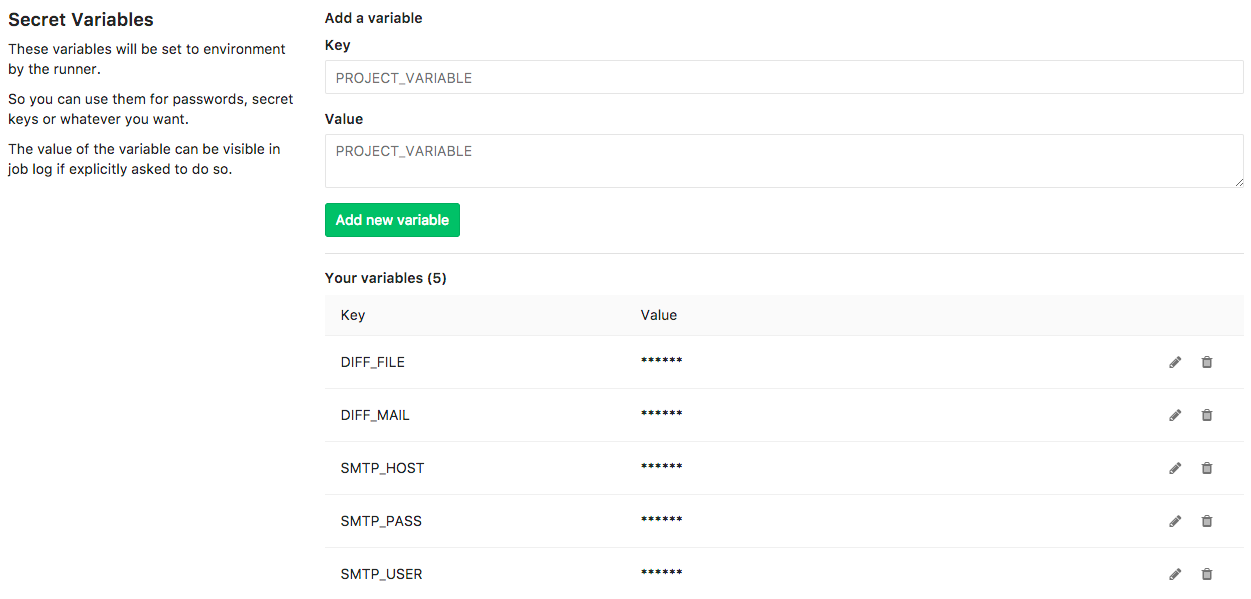
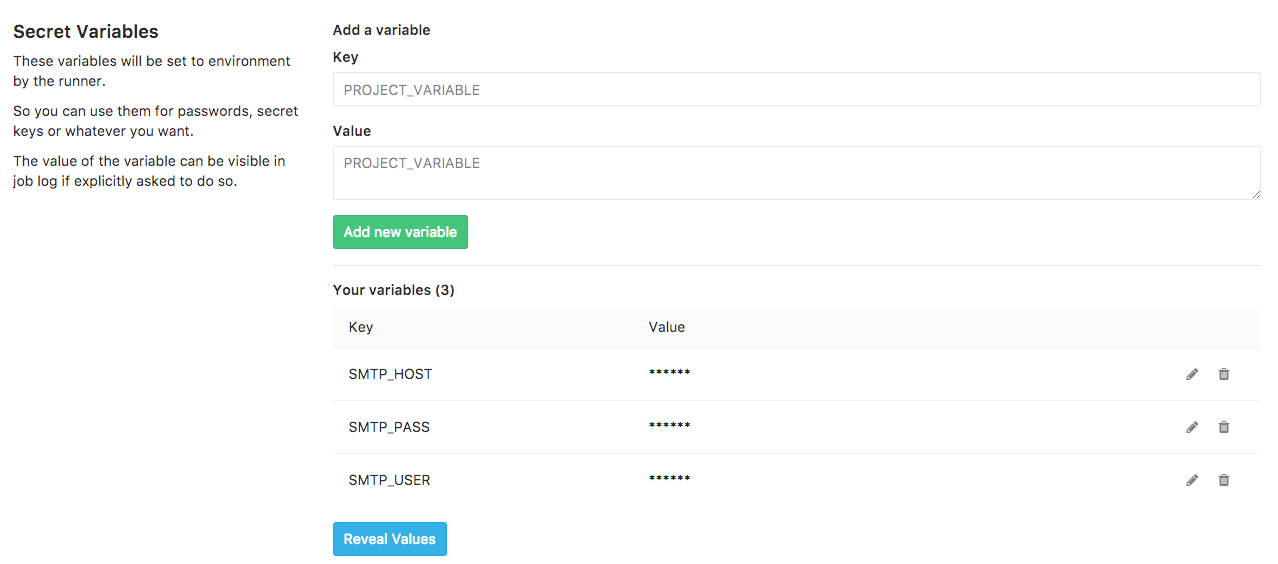
Update readme and screenshot

diff --git a/README.md b/README.md
@@ -1,6 +1,12 @@
 # GIT Diff Notification Service for GitLab
 
-Notifies on changes for given git repository files with git-diff to given email adresses as HTML email.
+Notifies on changes for given git repository files or folders with git-diff to given email adresses as HTML email.
+
+## Features
+
+- Supports multiple files
+- Supports multiple folders
+- Support for wildcards in filenames or folders
 
 ## Getting Started
 
@@ -13,8 +19,6 @@ Switch to your GitLab project settings and add these variables to the **Secret V
  - SMTP_HOST = `smtp.example.com`
  - SMTP_USER = `me@example.com`
  - SMTP_PASS = `Pa$$w0rd`
- - DIFF_MAIL = `someone@example.com,anybody@example.com`
- - DIFF_FILE = `file/to/watch.txt,.gitignore,otherfile/to.watch`
 
 #### Example
 
@@ -25,11 +29,12 @@ Now, add this snippet to your repositories `.gitlab-ci.yml` file as another task
 ```
 diff_notification:
   stage: build
-  image: pacecar/docker-diff-notification-service:latest
+  image: pacecar/docker-diff-notification-service:0.2
   only:
     - master
   script:
-    - ruby /ci-git-diff-notification-service.rb
+    - ruby /ci-git-diff-notification-service.rb -f db/schema.rb,docs/api* -m me@example.com,them@example.com
+    - ruby /ci-git-diff-notification-service.rb -f core/file.py -m alert@example.com
 ```
 
 ## Screenshot
